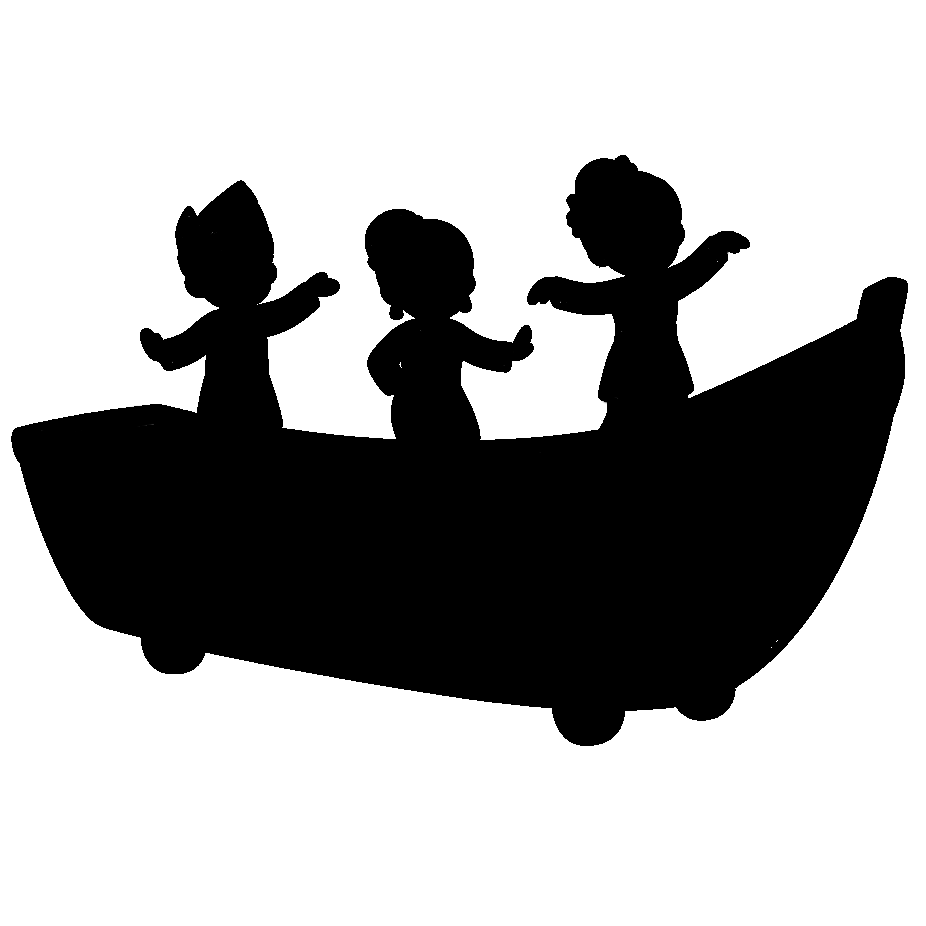
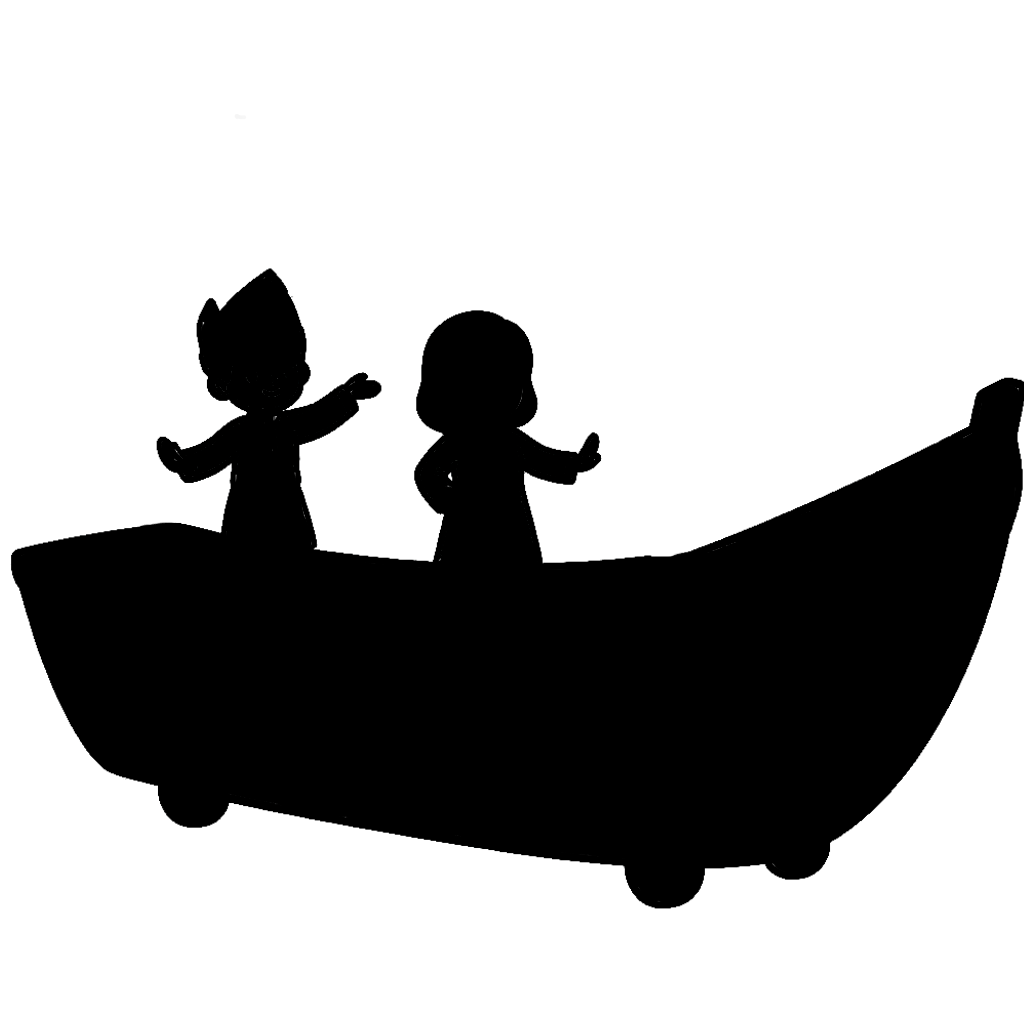
Update Malay float template display name and replace associated images
- Changed display name for the Malay float template from "2010 - Malay Float" to "2011 - Malay Float" in constants.ts.
- Updated the binary files for the Malay float images to reflect new designs.

These changes enhance the accuracy and visual representation of the Malay float template.

Changed region(s): [[0.0, 0.1512, 1.0, 0.9071]]

diff --git a/app/constants.ts b/app/constants.ts
@@ -80,7 +80,7 @@ export const FLOAT_TEMPLATES: FloatTemplate[] = [
   {
     id: "malay-float",
     name: "malay-float",
-    displayName: "2010 - Malay Float",
+    displayName: "2011 - Malay Float",
     thumbnail: "/templates/malay-float.png",
     svgPath: "/templates/malay-float.png",
     clipPath: "/templates/malay-float-clip.png", // Separate clip mask
